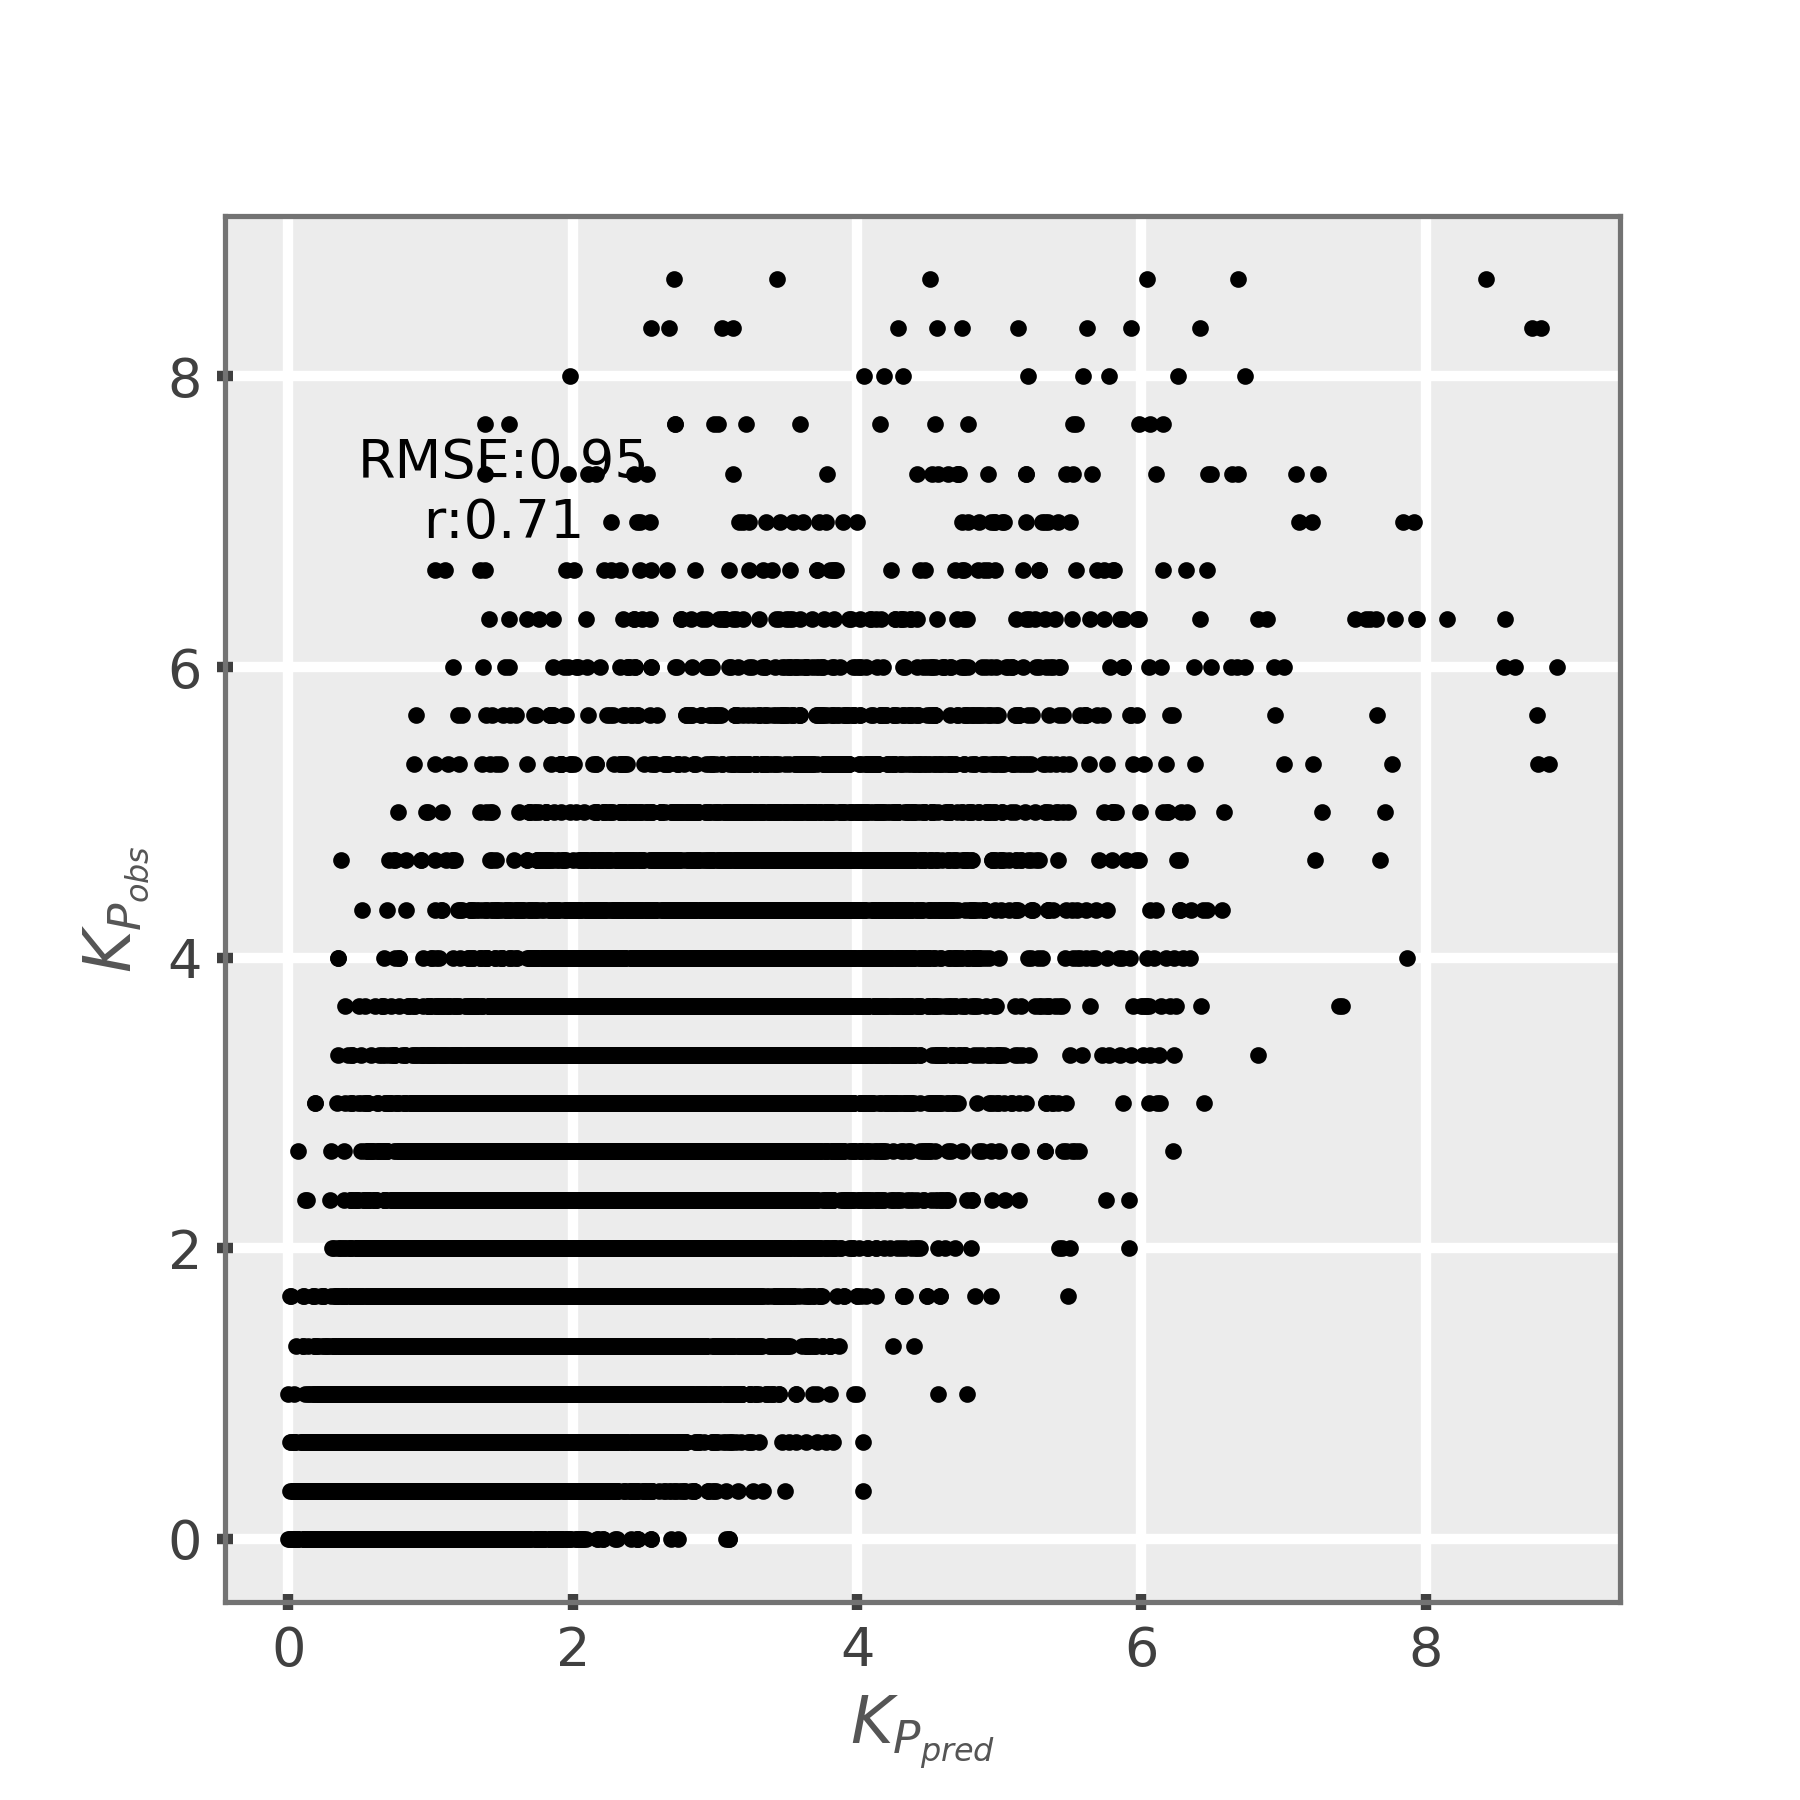
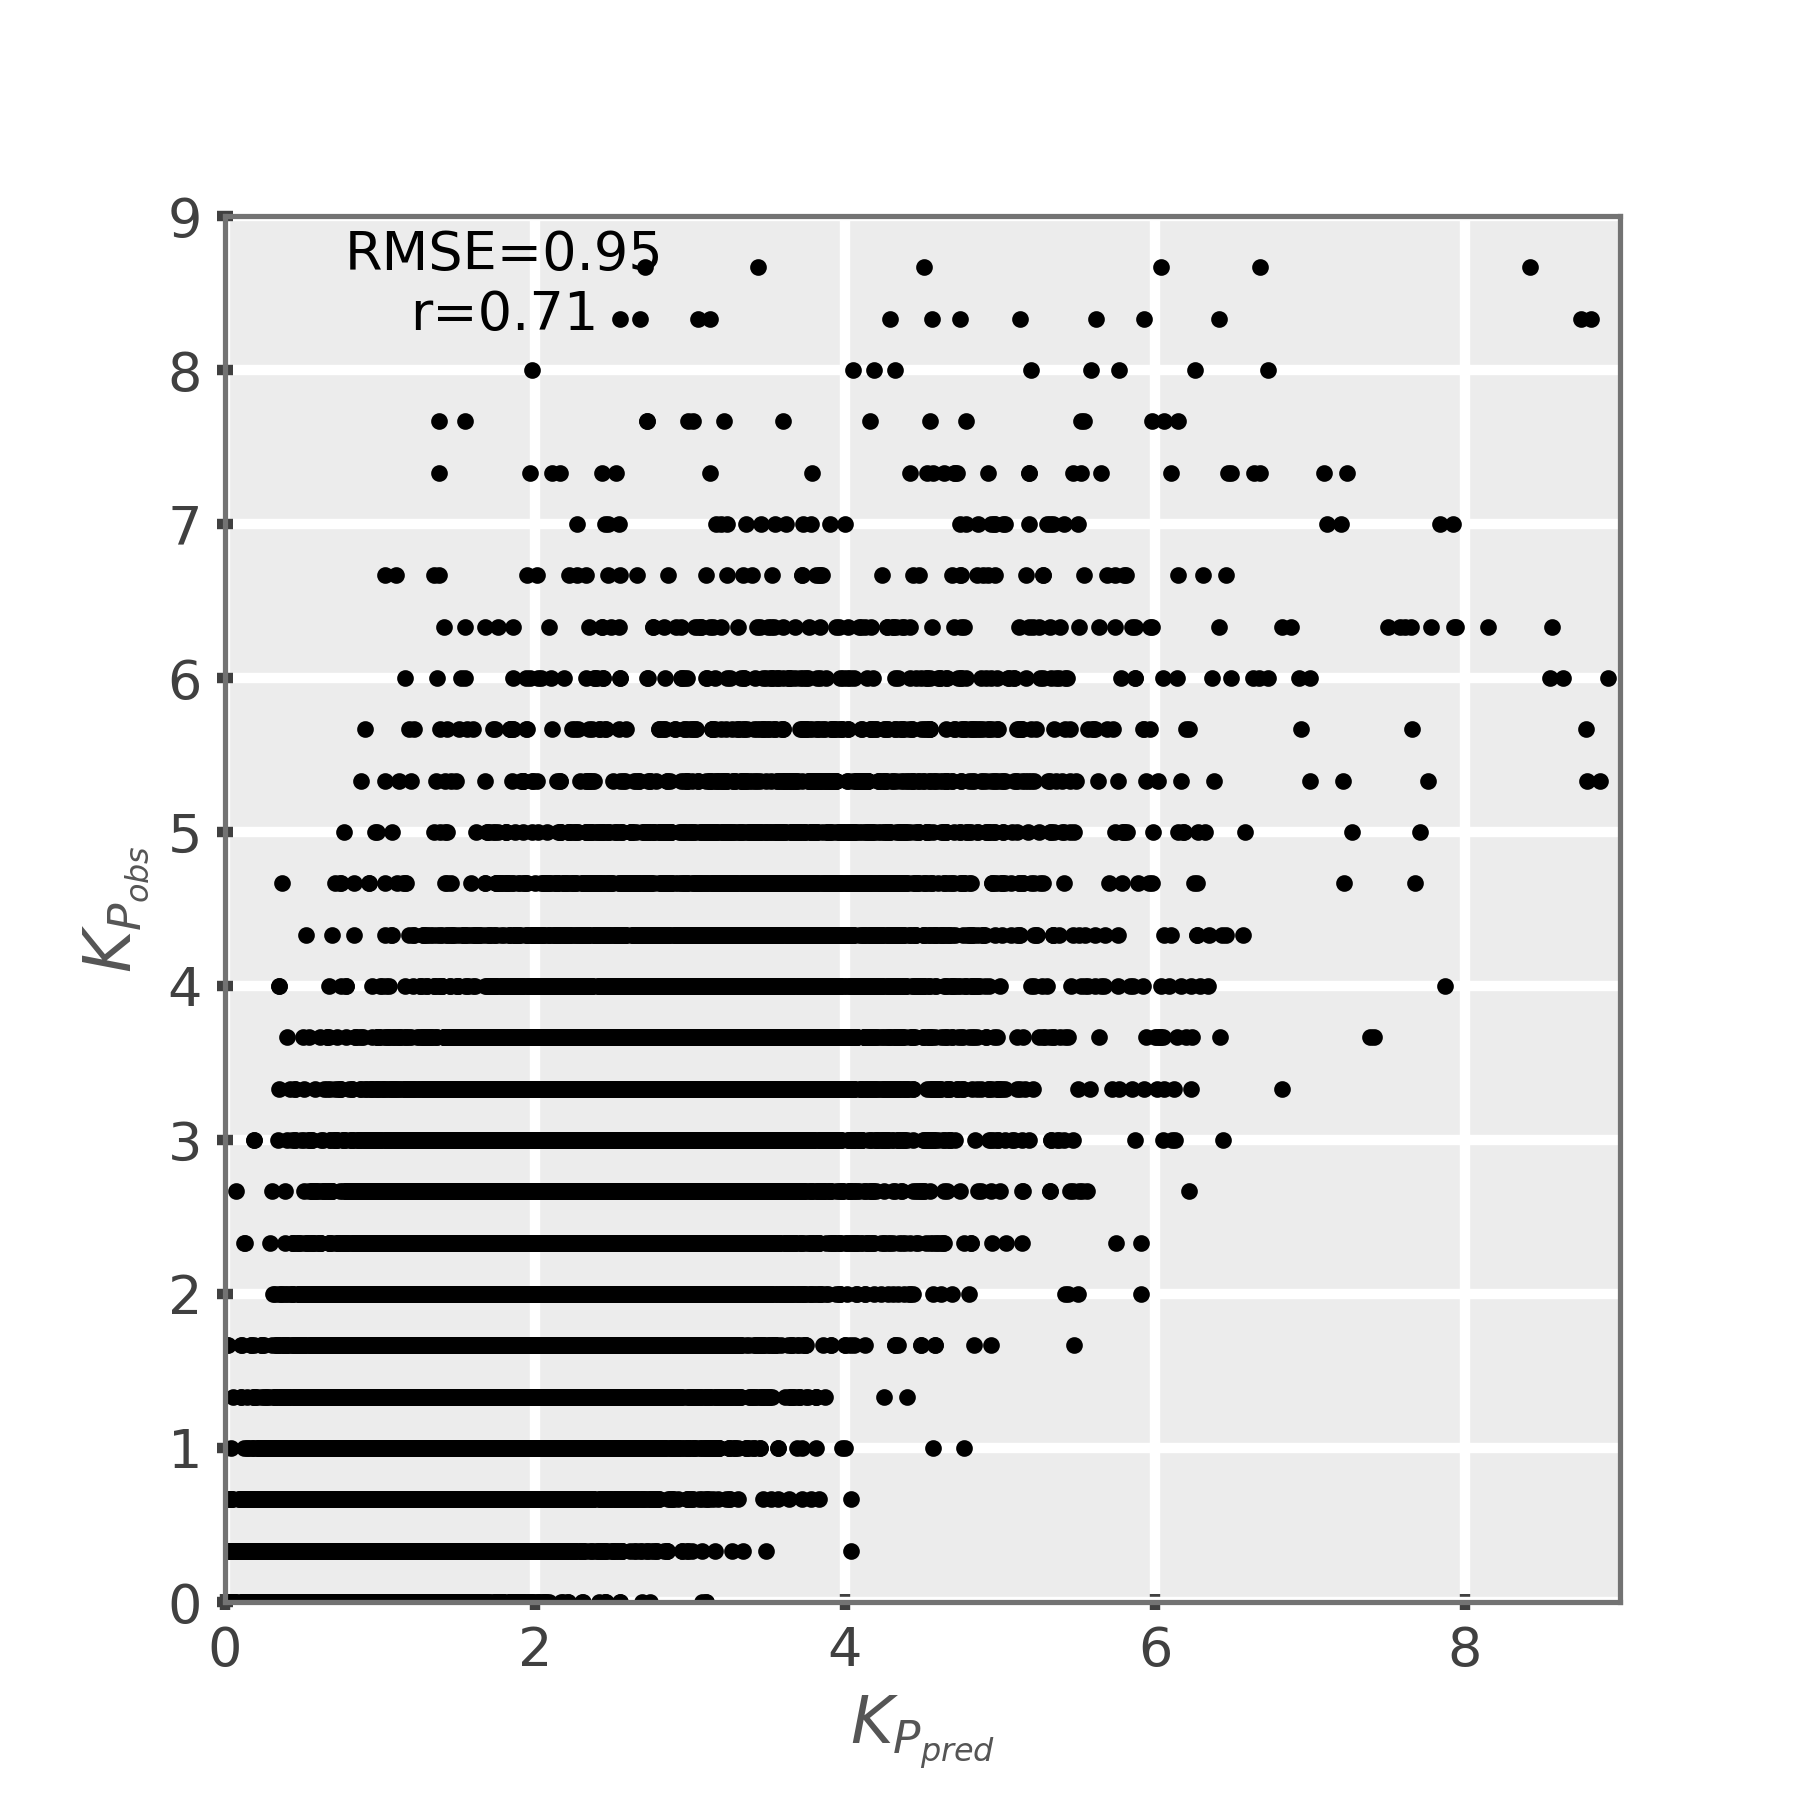
plots

diff --git a/util.py b/util.py
@@ -274,9 +274,11 @@ def get_stats(model, trw):
     splot.style("spacepy")
     fig, ax = plt.subplots(nrows=1,ncols=1,figsize=(6,6))
     ax.plot(y_pred,y_obs,"k.")
-    strx = "RMSE:%.2f\nr:%.2f"%(_eval_details["RMSE"],_eval_details["r"])
-    ax.text(0.2,0.8,strx,horizontalalignment='center',verticalalignment='center', transform=ax.transAxes)
+    strx = "RMSE=%.2f\nr=%.2f"%(_eval_details["RMSE"],_eval_details["r"])
+    ax.text(0.2,0.95,strx,horizontalalignment='center',verticalalignment='center', transform=ax.transAxes)
     ax.set_xlabel(r"$K_{P_{pred}}$")
+    ax.set_xlim(0,9)
+    ax.set_ylim(0,9)
     ax.set_ylabel(r"$K_{P_{obs}}$")
     fig.savefig("out/stat/det.%s.pred.%d.png"%(model,trw))
     return
